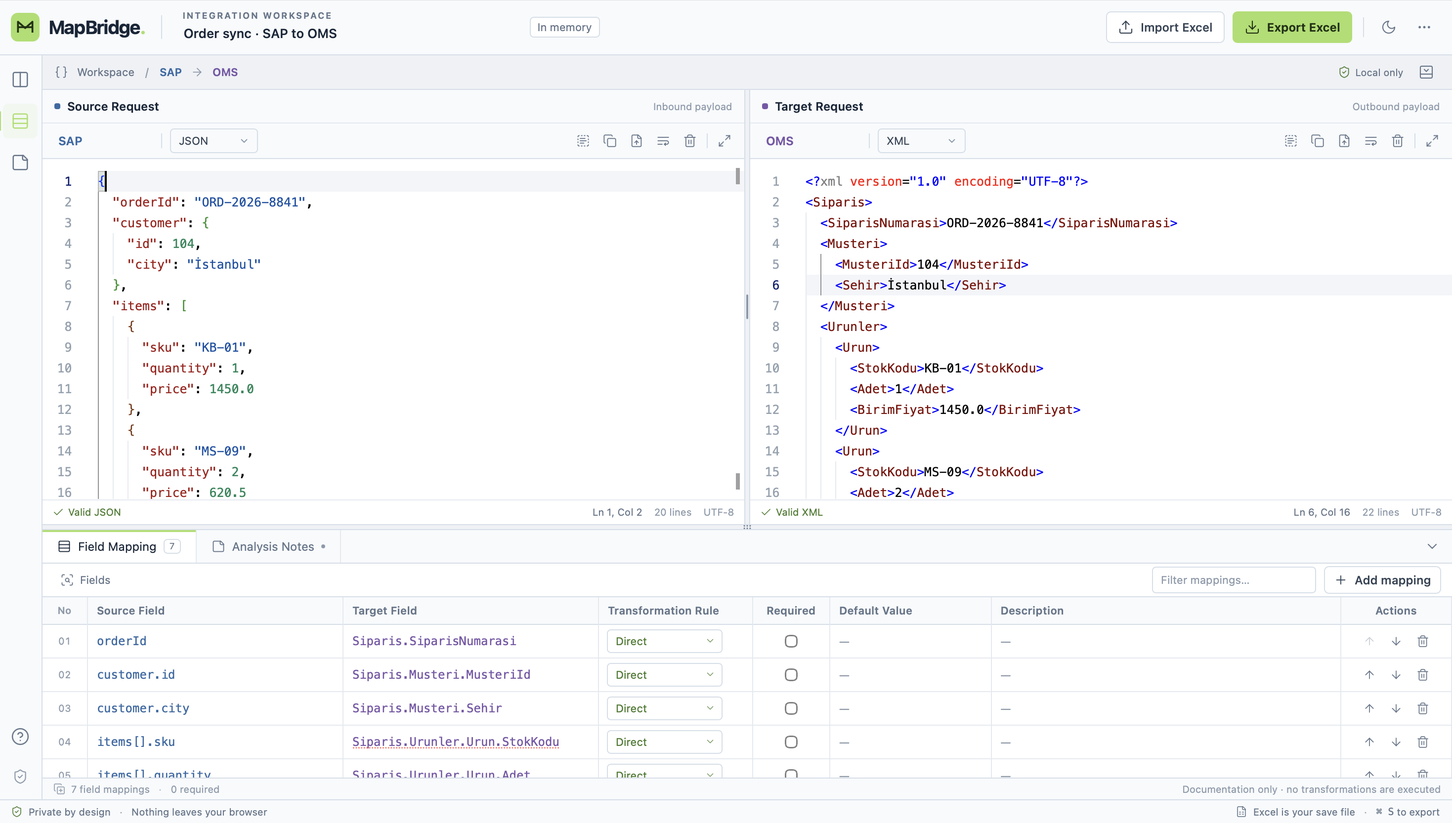
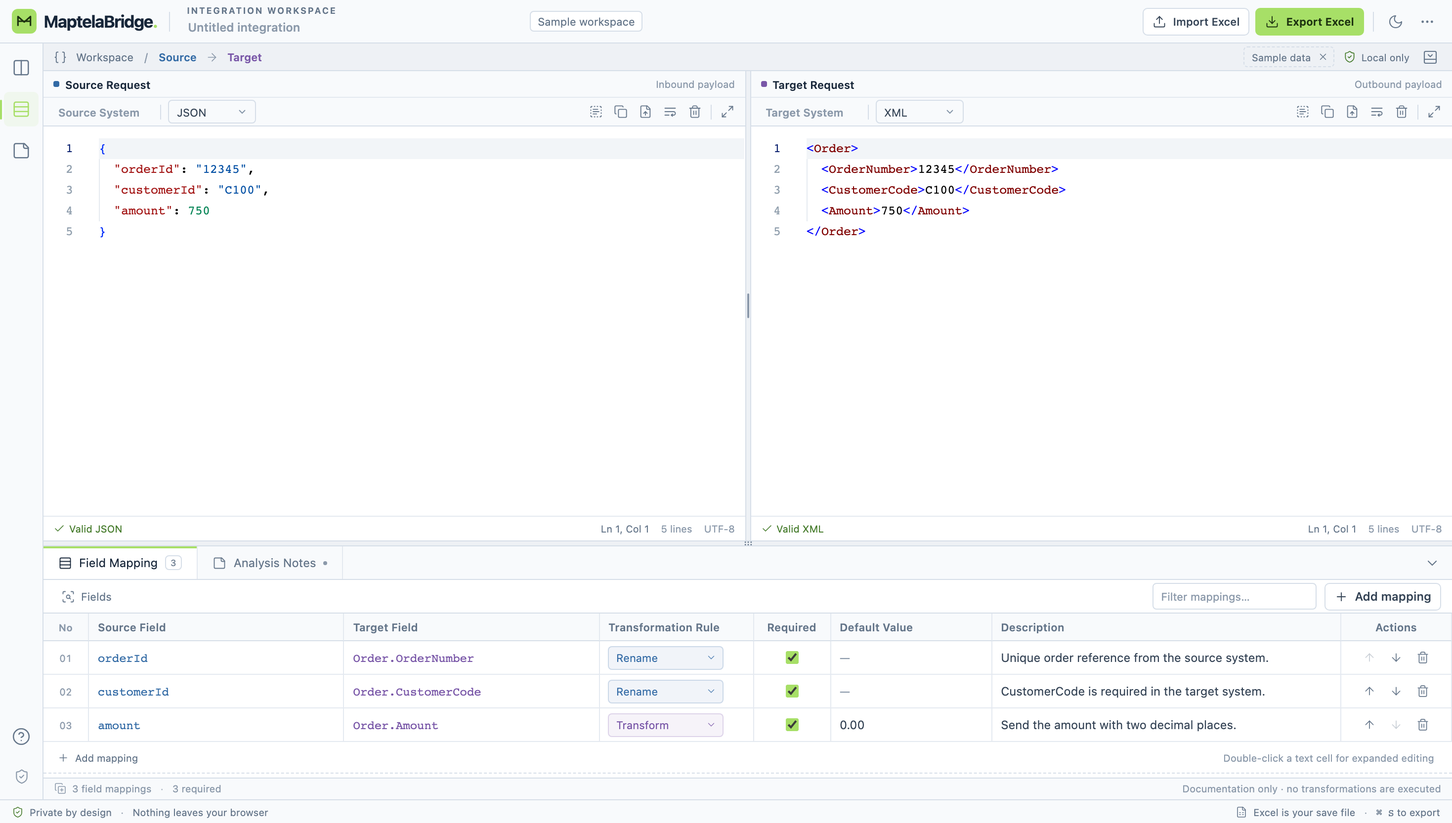
Rebrand as MaptelaBridge and deploy with GitHub Pages

diff --git a/src/App.tsx b/src/App.tsx
@@ -74,7 +74,7 @@ export default function App() {
   }, [notify])
   const doImport = async (file?: File) => {
     if (!file || busyRef.current) return
-    if (!file.name.toLowerCase().endsWith('.xlsx')) { notify('Select a MapBridge .xlsx file.', true); return }
+    if (!file.name.toLowerCase().endsWith('.xlsx')) { notify('Select a MaptelaBridge .xlsx file.', true); return }
     if (file.size > MAX_FILE_BYTES) { notify('Excel file exceeds the 50 MB import limit.', true); return }
     busyRef.current = true; setBusy('import')
     try {
@@ -110,7 +110,7 @@ export default function App() {
   }, [doExport])
   return <div className="app-shell">
     <header className="app-header">
-      <a className="brand" href="./" aria-label="MapBridge" onClick={event => event.preventDefault()}><span className="brand-mark"><svg viewBox="0 0 24 24" fill="none"><path d="M4 18V6l8 7 8-7v12M4 12h16" stroke="currentColor" strokeWidth="2" strokeLinejoin="round" /></svg></span><span>MapBridge<span className="brand-period">.</span></span></a>
+      <a className="brand" href="./" aria-label="MaptelaBridge" onClick={event => event.preventDefault()}><span className="brand-mark"><svg viewBox="0 0 24 24" fill="none"><path d="M4 18V6l8 7 8-7v12M4 12h16" stroke="currentColor" strokeWidth="2" strokeLinejoin="round" /></svg></span><span>MaptelaBridge<span className="brand-period">.</span></span></a>
       <span className="header-divider" />
       <div className="integration-title"><label htmlFor="integration-name">INTEGRATION WORKSPACE</label><input id="integration-name" placeholder="Untitled integration" value={workspace.integrationName} onChange={event => change(current => ({ ...current, integrationName: event.target.value }))} spellCheck={false} /></div>
       <span className={`workspace-state ${dirty ? 'is-dirty' : ''}`}>{dirty ? 'Unsaved changes' : sample ? 'Sample workspace' : 'In memory'}</span>
@@ -141,8 +141,8 @@ export default function App() {
       <p>Drag the dividers to resize panels. Double-click a divider to reset it, or use arrow keys when focused. Double-click a mapping text cell for expanded editing.</p>
       <p className="privacy-note"><ShieldCheck />Everything runs in your browser. No accounts, uploads to servers, analytics, or browser storage. Refreshing closes unsaved work; export Excel to keep it.</p>
       <div className="help-about"><span>Created by EnginKisin</span><nav aria-label="Project links">
-        <a href="https://github.com/EnginKisin/mapbridge" target="_blank" rel="noopener noreferrer" title="Open GitHub in a new tab"><Github aria-hidden="true" />GitHub<ExternalLink aria-hidden="true" /></a>
-        <a href="https://github.com/EnginKisin/mapbridge/issues/new" target="_blank" rel="noopener noreferrer" title="Open GitHub Issues in a new tab"><MessageSquare aria-hidden="true" />Feedback / Report an issue<ExternalLink aria-hidden="true" /></a>
+        <a href="https://github.com/EnginKisin/maptelabridge" target="_blank" rel="noopener noreferrer" title="Open GitHub in a new tab"><Github aria-hidden="true" />GitHub<ExternalLink aria-hidden="true" /></a>
+        <a href="https://github.com/EnginKisin/maptelabridge/issues/new" target="_blank" rel="noopener noreferrer" title="Open GitHub Issues in a new tab"><MessageSquare aria-hidden="true" />Feedback / Report an issue<ExternalLink aria-hidden="true" /></a>
       </nav></div>
       <div className="modal-actions"><button autoFocus className="button primary" onClick={() => setHelp(false)}><ArrowDownToLine />Got it</button></div>
     </Modal>}

diff --git a/src/services/excel/workbook.ts b/src/services/excel/workbook.ts
@@ -6,9 +6,10 @@ import { assertWorkspaceSize, MAX_ROWS, validateArchive } from './limits'
 import { normalizeSupplementaryUnicode, prepareUnicodeForExport } from './unicode'
 
 const SHEETS = ['Source Request', 'Target Request', 'Field Mapping', 'Analysis Notes'] as const
+const WORKBOOK_NAME = 'MaptelaBridge'
 const LINE_HEADER = ['Line', 'Part', 'Payload Text', 'Line Ending']
 const MAPPING_HEADER = ['No', 'Source Field', 'Target Field', 'Transformation Rule', 'Required', 'Default Value', 'Description', 'Part']
-const fail = (message: string): never => { throw new Error(`Invalid MapBridge workbook: ${message}`) }
+const fail = (message: string): never => { throw new Error(`Invalid ${WORKBOOK_NAME} workbook: ${message}`) }
 function text(cell: ExcelJS.Cell): string {
   if (cell.value === null || cell.value === undefined) return ''
   if (typeof cell.value !== 'string') return fail(`${cell.address} must contain plain text.`)
@@ -31,7 +32,7 @@ function styleHeader(row: ExcelJS.Row) {
 }
 function createSheet(book: ExcelJS.Workbook, name: string, kind: string) {
   const sheet = book.addWorksheet(name)
-  sheet.addRow(['MapBridge', '1', kind])
+  sheet.addRow([WORKBOOK_NAME, '1', kind])
   sheet.getRow(1).font = { name: 'Calibri', bold: true, color: { argb: 'FF426433' } }
   return sheet
 }
@@ -96,7 +97,7 @@ function readPayload(sheet: ExcelJS.Worksheet, side: 'Source' | 'Target'): { nam
 export async function exportWorkbook(workspace: Workspace): Promise<ArrayBuffer> {
   assertWorkspaceSize(workspace)
   const book = new ExcelJS.Workbook()
-  book.creator = 'MapBridge'
+  book.creator = WORKBOOK_NAME
   writePayload(book, SHEETS[0], 'Source', workspace)
   writePayload(book, SHEETS[1], 'Target', workspace)
   const mapping = createSheet(book, SHEETS[2], 'mapping')
@@ -121,7 +122,7 @@ export async function importWorkbook(buffer: ArrayBuffer): Promise<Workspace> {
   validateArchive(buffer)
   const book = new ExcelJS.Workbook()
   try { await book.xlsx.load(await normalizeSupplementaryUnicode(buffer)) } catch { throw new Error('Unable to read this Excel file. It may be damaged or password protected.') }
-  if (book.worksheets.length !== 4 || SHEETS.some(name => !book.getWorksheet(name))) fail('expected the four original MapBridge sheets.')
+  if (book.worksheets.length !== 4 || SHEETS.some(name => !book.getWorksheet(name))) fail('expected the four original MaptelaBridge sheets.')
   for (const [index, name] of SHEETS.entries()) {
     const sheet = book.getWorksheet(name)!
     if (sheet.rowCount > MAX_ROWS || sheet.columnCount > (index === 2 ? 8 : 4)) fail(`sheet ${name} is too large or has unexpected columns.`)
@@ -130,7 +131,7 @@ export async function importWorkbook(buffer: ArrayBuffer): Promise<Workspace> {
       if (cell.value !== null && typeof cell.value !== 'string' && typeof cell.value !== 'number') fail('formulas, links and non-text values are not supported.')
       if (typeof cell.value === 'string' && cell.value.length > 32767) fail('a cell exceeds the Excel text limit.')
     }))
-    header(sheet, 1, ['MapBridge', '1', ['source', 'target', 'mapping', 'notes'][index]])
+    header(sheet, 1, [WORKBOOK_NAME, '1', ['source', 'target', 'mapping', 'notes'][index]])
   }
   const source = readPayload(book.getWorksheet(SHEETS[0])!, 'Source')
   const target = readPayload(book.getWorksheet(SHEETS[1])!, 'Target')

diff --git a/src/components/editor/PayloadEditor.tsx b/src/components/editor/PayloadEditor.tsx
@@ -36,7 +36,7 @@ export const PayloadEditor = memo(function PayloadEditor({ side, payload, theme,
       const editor = editorRef.current
       if (editor?.getModel()) {
         editor.pushUndoStop()
-        editor.executeEdits('mapbridge-format', [{ range: editor.getModel()!.getFullModelRange(), text: formatted }])
+        editor.executeEdits('maptelabridge-format', [{ range: editor.getModel()!.getFullModelRange(), text: formatted }])
         editor.pushUndoStop()
       } else onChange({ content: formatted })
       onNotify('Payload formatted.')
@@ -50,7 +50,7 @@ export const PayloadEditor = memo(function PayloadEditor({ side, payload, theme,
   useEffect(() => {
     const model = editorRef.current?.getModel()
     if (!model) return
-    monaco.editor.setModelMarkers(model, 'mapbridge', validation.state === 'invalid' ? [{ severity: monaco.MarkerSeverity.Error, message: validation.message, startLineNumber: validation.line || 1, startColumn: validation.column || 1, endLineNumber: validation.line || 1, endColumn: (validation.column || 1) + 1 }] : [])
+    monaco.editor.setModelMarkers(model, 'maptelabridge', validation.state === 'invalid' ? [{ severity: monaco.MarkerSeverity.Error, message: validation.message, startLineNumber: validation.line || 1, startColumn: validation.column || 1, endLineNumber: validation.line || 1, endColumn: (validation.column || 1) + 1 }] : [])
   }, [validation])
   const mounted: OnMount = editor => {
     editorRef.current = editor
@@ -90,7 +90,7 @@ export const PayloadEditor = memo(function PayloadEditor({ side, payload, theme,
       <input ref={fileRef} data-testid={`${side}-file`} type="file" accept=".json,.xml,.txt,.sql,.idoc" hidden onChange={event => { void upload(event.target.files?.[0]); event.target.value = '' }} />
     </div>
     <div className="monaco-container">
-      <Editor language={language} value={payload.content} theme={`mapbridge-${theme}`} onMount={mounted} onChange={content => onChange({ content: content ?? '' })} loading={<div className="editor-loading">Loading local editor…</div>}
+      <Editor language={language} value={payload.content} theme={`maptelabridge-${theme}`} onMount={mounted} onChange={content => onChange({ content: content ?? '' })} loading={<div className="editor-loading">Loading local editor…</div>}
         options={{ ariaLabel: `${side} payload`, fontSize: 12.5, fontFamily: '"SFMono-Regular", Consolas, "Liberation Mono", monospace', lineHeight: 21, minimap: { enabled: false }, automaticLayout: true, scrollBeyondLastLine: false, wordWrap: wrap ? 'on' : 'off', folding: true, showFoldingControls: 'mouseover', lineNumbersMinChars: 4, glyphMargin: false, padding: { top: 12, bottom: 12 }, tabSize: 2, insertSpaces: true, renderLineHighlight: 'line', overviewRulerBorder: false, hideCursorInOverviewRuler: true, scrollbar: { verticalScrollbarSize: 9, horizontalScrollbarSize: 9 }, fixedOverflowWidgets: true, stickyScroll: { enabled: false }, links: false, unicodeHighlight: { ambiguousCharacters: false }, bracketPairColorization: { enabled: false }, quickSuggestions: false }} />
     </div>
     <div className="editor-status">

diff --git a/src/services/excel/workbook.test.ts b/src/services/excel/workbook.test.ts
@@ -23,7 +23,9 @@ describe('Excel round trip', () => {
     const buffer = await exportWorkbook(original)
     const book = new ExcelJS.Workbook()
     await book.xlsx.load(buffer)
+    expect(book.creator).toBe('MaptelaBridge')
     expect(book.worksheets.map(sheet => sheet.name)).toEqual(['Source Request', 'Target Request', 'Field Mapping', 'Analysis Notes'])
+    expect(book.worksheets.map(sheet => sheet.getCell('A1').value)).toEqual(Array(4).fill('MaptelaBridge'))
     expect(book.getWorksheet('Field Mapping')?.autoFilter).toBeDefined()
     expect(book.getWorksheet('Field Mapping')?.views[0].state).toBe('frozen')
     expect(comparable(await importWorkbook(buffer))).toEqual(comparable(original))
@@ -116,6 +118,14 @@ describe('Workbook validation', () => {
     await expect(importWorkbook(await modify(sampleWorkspace(), book => { book.removeWorksheet('Analysis Notes') }))).rejects.toThrow('four original')
     await expect(importWorkbook(await modify(sampleWorkspace(), book => { book.getWorksheet('Source Request')!.getCell('B1').value = '2' }))).rejects.toThrow('headers')
   })
+  it('rejects unrelated or inconsistent workbook identities', async () => {
+    await expect(importWorkbook(await modify(sampleWorkspace(), book => {
+      book.eachSheet(sheet => { sheet.getCell('A1').value = 'Unrelated workbook' })
+    }))).rejects.toThrow('headers')
+    await expect(importWorkbook(await modify(sampleWorkspace(), book => {
+      book.getWorksheet('Target Request')!.getCell('A1').value = 'Different workbook'
+    }))).rejects.toThrow('headers')
+  })
   it('rejects formulas even if a cached result is provided', async () => {
     const buffer = await modify(sampleWorkspace(), book => { book.getWorksheet('Source Request')!.getCell('C6').value = { formula: '1+1', result: 2 } })
     await expect(importWorkbook(buffer)).rejects.toThrow('formulas')
@@ -151,6 +161,6 @@ describe('Text codec and file names', () => {
   })
   it('sanitizes filenames and uses the local calendar date', () => {
     expect(excelFilename('SAP/SAG:Retter*?', new Date(2026, 10, 21, 1))).toBe('SAP_SAG_Retter___2026-11-21.xlsx')
-    expect(excelFilename('', new Date(2026, 10, 21))).toBe('MapBridge_2026-11-21.xlsx')
+    expect(excelFilename('', new Date(2026, 10, 21))).toBe('MaptelaBridge_2026-11-21.xlsx')
   })
 })

diff --git a/src/components/editor/monaco.ts b/src/components/editor/monaco.ts
@@ -18,7 +18,7 @@ import JsonWorker from 'monaco-editor/esm/vs/language/json/json.worker?worker'
 
 self.MonacoEnvironment = { getWorker: (_moduleId, label) => label === 'json' ? new JsonWorker() : new EditorWorker() }
 monaco.languages.json.jsonDefaults.setDiagnosticsOptions({ validate: false, enableSchemaRequest: false })
-monaco.editor.defineTheme('mapbridge-dark', {
+monaco.editor.defineTheme('maptelabridge-dark', {
   base: 'vs-dark', inherit: true, rules: [
     { token: 'string.key.json', foreground: '9AC9F0' }, { token: 'string.value.json', foreground: 'B4D99A' },
     { token: 'number', foreground: 'D5B689' }, { token: 'tag', foreground: '8FB9E0' },
@@ -26,7 +26,7 @@ monaco.editor.defineTheme('mapbridge-dark', {
   ],
   colors: { 'editor.background': '#141a22', 'editor.foreground': '#c9d3df', 'editorLineNumber.foreground': '#4f6073', 'editorLineNumber.activeForeground': '#a6b7ca', 'editor.lineHighlightBackground': '#1b2430', 'editor.selectionBackground': '#30435a', 'editorCursor.foreground': '#b8ed78', 'editorIndentGuide.background1': '#25303d', 'editorGutter.background': '#141a22', 'editorWidget.background': '#202a36' },
 })
-monaco.editor.defineTheme('mapbridge-light', {
+monaco.editor.defineTheme('maptelabridge-light', {
   base: 'vs', inherit: true, rules: [],
   colors: { 'editor.background': '#ffffff', 'editor.lineHighlightBackground': '#f2f5f8', 'editorLineNumber.foreground': '#93a1af', 'editorIndentGuide.background1': '#e5eaf0', 'editorGutter.background': '#ffffff' },
 })

diff --git a/index.html b/index.html
@@ -4,9 +4,9 @@
     <meta charset="UTF-8" />
     <meta name="viewport" content="width=device-width, initial-scale=1.0" />
     <meta name="theme-color" content="#f8fafc" />
-    <meta name="description" content="MapBridge — a private, browser-only integration mapping workspace. Compare payloads, document field mappings, and carry your analysis in one Excel file." />
+    <meta name="description" content="MaptelaBridge — a private, browser-only integration mapping workspace. Compare payloads, document field mappings, and carry your analysis in one Excel file." />
     <link rel="icon" type="image/svg+xml" href="%BASE_URL%favicon.svg" />
-    <title>MapBridge — Integration Mapping Workspace</title>
+    <title>MaptelaBridge — Integration Mapping Workspace</title>
   </head>
   <body>
     <div id="root"></div>

diff --git a/src/services/excel/codec.ts b/src/services/excel/codec.ts
@@ -20,7 +20,7 @@ export function encodeChunks(value: string): string[] {
   return chunks
 }
 export function decodeText(value: string): string {
-  if (/~(?![0-9a-f]{4})/.test(value)) throw new Error('Invalid MapBridge text escape. Preserve encoded text when editing this workbook.')
+  if (/~(?![0-9a-f]{4})/.test(value)) throw new Error('Invalid MaptelaBridge text escape. Preserve encoded text when editing this workbook.')
   return value.replace(/~([0-9a-f]{4})/g, (_, hex: string) => String.fromCharCode(parseInt(hex, 16)))
 }
 export interface TextLine { text: string; ending: 'LF' | 'CRLF' | 'CR' | 'NONE' }

diff --git a/tests/e2e/workspace.spec.ts b/tests/e2e/workspace.spec.ts
@@ -14,6 +14,8 @@ test.afterEach(async ({ page }) => { expect(browserErrors.get(page)).toEqual([])
 
 async function ready(page: Page) {
   await page.goto('/')
+  await expect(page).toHaveTitle('MaptelaBridge — Integration Mapping Workspace')
+  await expect(page.getByRole('link', { name: 'MaptelaBridge', exact: true })).toBeVisible()
   await expect(page.locator('.monaco-editor')).toHaveCount(2)
   await expect(page.getByText('Valid JSON', { exact: true })).toBeVisible()
   await expect(page.getByText('Valid XML', { exact: true })).toBeVisible()

diff --git a/src/services/excel/filename.ts b/src/services/excel/filename.ts
@@ -1,5 +1,5 @@
 export function excelFilename(name: string, date = new Date()): string {
-  const clean = name.replace(/[<>:"/\\|?*\u0000-\u001f]/g, '_').replace(/[ .]+$/g, '').trim().slice(0, 100) || 'MapBridge'
+  const clean = name.replace(/[<>:"/\\|?*\u0000-\u001f]/g, '_').replace(/[ .]+$/g, '').trim().slice(0, 100) || 'MaptelaBridge'
   const stamp = `${date.getFullYear()}-${String(date.getMonth() + 1).padStart(2, '0')}-${String(date.getDate()).padStart(2, '0')}`
   return `${clean}_${stamp}.xlsx`
 }

diff --git a/README.md b/README.md
@@ -1,14 +1,16 @@
-# MapBridge
+# MaptelaBridge
 
 **Integration Mapping Workspace**
 
-MapBridge is a browser-based tool for technical business analysts and integration developers. It helps teams compare source and target payloads, write field mappings, and record analysis notes in one compact workspace.
+[Open MaptelaBridge](https://enginkisin.github.io/maptelabridge/)
+
+MaptelaBridge is a browser-based tool for technical business analysts and integration developers. It helps teams compare source and target payloads, write field mappings, and record analysis notes in one compact workspace.
 
 During an integration meeting, you can keep both payloads on screen and document how their fields should connect. Save the whole analysis in one Excel file, then import the same file later to continue your work.
 
-MapBridge is an analysis and documentation tool. It does not send API requests, run SQL, or transform business data.
+MaptelaBridge is an analysis and documentation tool. It does not send API requests, run SQL, or transform business data.
 
-![MapBridge workspace](docs/images/workspace.png)
+![MaptelaBridge workspace](docs/images/workspace.png)
 
 ## Main features
 
@@ -43,9 +45,11 @@ The app bundles its libraries, editor workers, and fonts in the build. It does n
 
 Use **Node.js 24 LTS** and npm. The `.nvmrc` file sets the Node.js version, and `package-lock.json` keeps dependency versions consistent.
 
-From the project folder, run:
+Clone the repository, then start the development server:
 
 ```sh
+git clone https://github.com/EnginKisin/maptelabridge.git
+cd maptelabridge
 npm ci
 npm run dev
 ```
@@ -63,7 +67,7 @@ Open the address printed by Vite. It is normally `http://127.0.0.1:5173`.
 | `npm run test:watch` | Run unit tests again when files change |
 | `npm run test:e2e` | Run browser tests against the production build |
 
-## How to use MapBridge
+## How to use MaptelaBridge
 
 1. Enter an integration name and the names of the Source and Target systems.
 2. Paste or load a payload into each editor. Choose the correct format for each side.
@@ -71,13 +75,13 @@ Open the address printed by Vite. It is normally `http://127.0.0.1:5173`.
 4. Review Source Field and Target Field. Add the rule, required flag, default value, and description.
 5. Write your decisions and open questions in **Analysis Notes**.
 6. Select **Export Excel** to download the full analysis.
-7. Use **Import Excel** to open a saved MapBridge workbook later.
+7. Use **Import Excel** to open a saved MaptelaBridge workbook later.
 
 The app starts with anonymous sample payloads, mappings, and notes. The integration and system names start empty, with **Untitled integration**, **Source System**, and **Target System** as placeholders; enter your own names directly. Click **Sample data** to clear the example and start a blank workspace. New Workspace and Clear Workspace are also available in the workspace menu.
 
 **Excel is your save file.** The app keeps your work in memory only. Export it before you refresh or close the tab. After edits, the app asks the browser to show a leave-page warning, but browser behavior can vary. Make sure the download finishes and keep the file.
 
-Before an import replaces your current work, MapBridge checks the file and asks for confirmation. An invalid import does not replace the workspace.
+Before an import replaces your current work, MaptelaBridge checks the file and asks for confirmation. An invalid import does not replace the workspace.
 
 ### Keyboard and panel controls
 
@@ -104,7 +108,7 @@ The help window also includes a **GitHub** link to the source code and **Feedbac
 
 ### Transformation rules
 
-The **Transformation Rule** column records how a source value should become a target value. These rules document the intended integration behavior; MapBridge saves them in Excel without executing them or changing either payload. Use **Description** to explain the condition, lookup table, formula, or other details.
+The **Transformation Rule** column records how a source value should become a target value. These rules document the intended integration behavior; MaptelaBridge saves them in Excel without executing them or changing either payload. Use **Description** to explain the condition, lookup table, formula, or other details.
 
 | Rule | Meaning | Example |
 | --- | --- | --- |
@@ -118,7 +122,7 @@ The **Transformation Rule** column records how a source value should become a ta
 
 ## Field discovery
 
-MapBridge scans JSON, XML, and IDoc XML after you stop typing for about 500 ms. The scan runs in a background worker in your browser. A newer edit cancels the previous scan.
+MaptelaBridge scans JSON, XML, and IDoc XML after you stop typing for about 500 ms. The scan runs in a background worker in your browser. A newer edit cancels the previous scan.
 
 Open **Field Mapping → Fields** to review the results:
 
@@ -168,7 +172,7 @@ Every exported workbook has exactly four visible sheets:
 | **Field Mapping** | No, Source Field, Target Field, Transformation Rule, Required, Default Value, and Description |
 | **Analysis Notes** | Integration Name and the complete analysis notes |
 
-The mapping sheet has clear headers, filters, and frozen headings. Each sheet also has technical labels and part numbers so MapBridge can restore the analysis correctly.
+The mapping sheet has clear headers, filters, and frozen headings. Each sheet also has technical labels and part numbers so MaptelaBridge can restore the analysis correctly.
 
 ### Keeping the original text
 
@@ -180,12 +184,12 @@ The mapping sheet has clear headers, filters, and frozen headings. Each sheet al
 - Import rejects formula cells, including formulas with saved results.
 - Added mappings use the same workbook format. Field suggestions and warnings are calculated again after import.
 
-MapBridge imports its own workbook format, not any Excel file. Keep sheet names, schema headers, part numbers, and row order unchanged. Theme, panel sizes, cursor position, filter text, and undo history are not saved in Excel.
+MaptelaBridge imports its own workbook format, not any Excel file. Keep sheet names, schema headers, part numbers, and row order unchanged. Theme, panel sizes, cursor position, filter text, and undo history are not saved in Excel.
 
 <details>
 <summary>Technical details of workbook format version 1</summary>
 
-Row 1 in each sheet contains `MapBridge`, version `1`, and the sheet type. Metadata uses `Label / Text / Part` records.
+Row 1 in each sheet contains `MaptelaBridge`, version `1`, and the sheet type. Metadata uses `Label / Text / Part` records.
 
 Payloads and notes use `Line / Part / Payload Text` (or `Analysis Notes`) `/ Line Ending`. The ending codes are `LF`, `CRLF`, `CR`, and `NONE`. `CONT` means the same line continues in the next part. Long mapping values use an extra `Part` column. These records allow exact text recovery, including the final newline.
 
@@ -197,7 +201,7 @@ Keep these codes if you edit the workbook by hand.
 
 ## Privacy
 
-All payload processing happens in your browser. MapBridge does not send payloads or notes to a server.
+All payload processing happens in your browser. MaptelaBridge does not send payloads or notes to a server.
 
 - No backend, database, accounts, authentication, or cloud storage.
 - No analytics or telemetry.
@@ -282,21 +286,22 @@ tests/e2e/           Browser tests
 
 ## Static hosting and GitHub Pages
 
-Build the app with:
+The live app is available at **https://enginkisin.github.io/maptelabridge/**.
+
+[The deployment workflow](.github/workflows/deploy.yml) publishes every push to `main`. It installs dependencies with `npm ci`, runs the unit tests, builds the app with `VITE_BASE_PATH=/maptelabridge/`, and deploys `dist/` to GitHub Pages. A failed test or build stops the deployment.
+
+In the repository's **Settings → Pages**, the deployment source is **GitHub Actions**. You can follow deployments or run the workflow manually from [Actions](https://github.com/EnginKisin/maptelabridge/actions/workflows/deploy.yml).
+
+To preview the same build locally:
 
 ```sh
-npm run build
+VITE_BASE_PATH=/maptelabridge/ npm run build
+VITE_BASE_PATH=/maptelabridge/ npm run preview
 ```
 
-Publish the contents of `dist/` to a static host. Pushing the source code to GitHub alone does not publish the app. This repository does not include an automatic deployment workflow.
+Open `http://127.0.0.1:4173/maptelabridge/`. Workers, fonts, and other required files are included in the build. The app has no routes that need special server rewrite rules.
 
-The default Vite base path is `./`. For a GitHub Pages repository path, you can set it before building:
-
-```sh
-VITE_BASE_PATH=/mapbridge/ npm run build
-```
-
-Replace `/mapbridge/` with your repository path if needed. Workers, fonts, and other required files are included in the build. The app has no routes that need special server rewrite rules.
+For another static host, run `npm run build` and publish the contents of `dist/`. The default Vite base path is `./`; set `VITE_BASE_PATH` if the host requires a different path. If you fork or rename the repository, update the path in the workflow and the live links in this README.
 
 Before a release, check the hosted address to make sure the editors load and Excel import/export works. See the [Vite static deployment guide](https://vite.dev/guide/static-deploy) for hosting instructions.
 
@@ -311,4 +316,4 @@ The current version does not include automatic source-to-target matching, payloa
 
 ## License
 
-MapBridge is licensed under the [MIT License](LICENSE). You can use, change, and share it, including for commercial use, while keeping the license and copyright notice. Third-party libraries keep their own licenses; see [Third-party notices](public/THIRD_PARTY_NOTICES.txt).
+MaptelaBridge is licensed under the [MIT License](LICENSE). You can use, change, and share it, including for commercial use, while keeping the license and copyright notice. Third-party libraries keep their own licenses; see [Third-party notices](public/THIRD_PARTY_NOTICES.txt).
